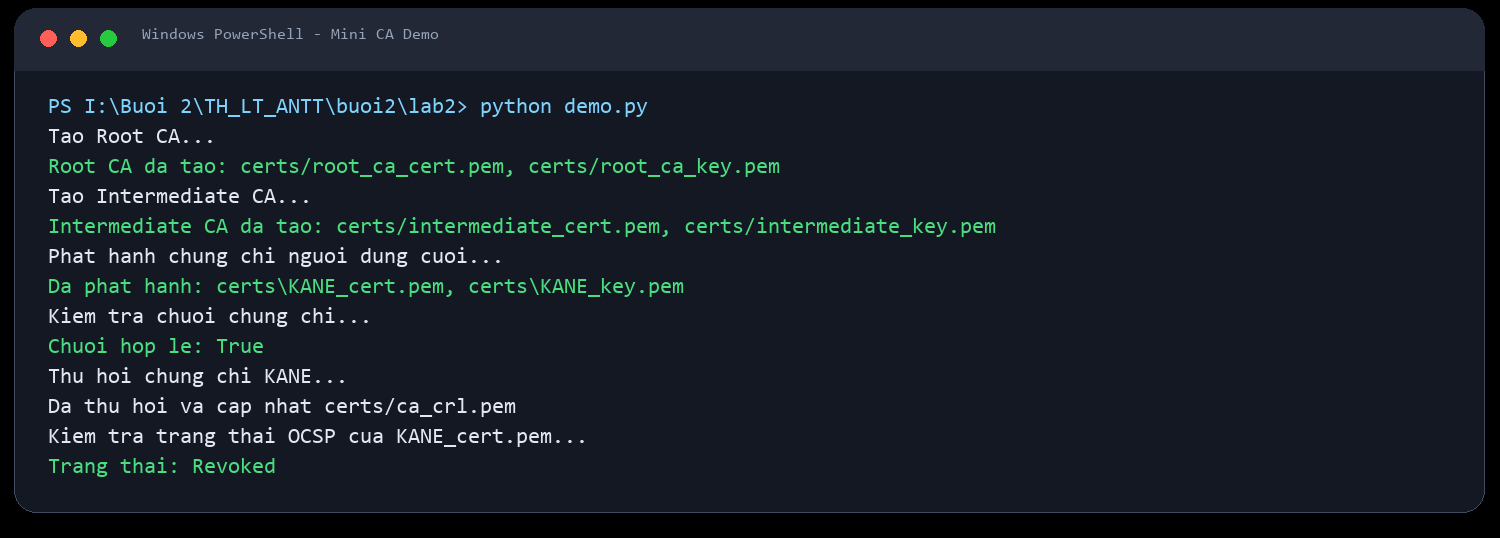
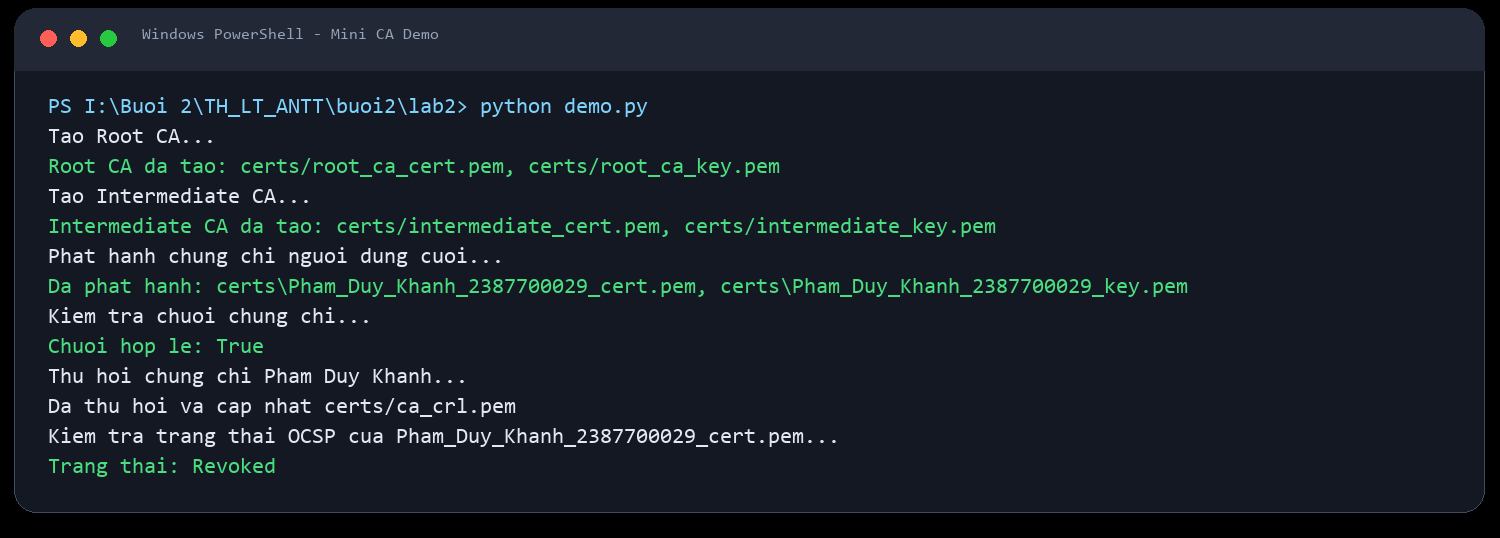
update student identity for buoi2 report

Changed region(s): [[0.184, 0.5056, 0.7973, 0.5651], [0.2453, 0.7732, 0.552, 0.8327], [0.184, 0.684, 0.3067, 0.7138]]

diff --git a/buoi2/lab2/demo_ui.py b/buoi2/lab2/demo_ui.py
@@ -61,13 +61,13 @@ class CADemoApp(tk.Tk):
         if not inter_key or not inter_cert:
             messagebox.showerror("Loi", "Phai tao CA truoc khi phat hanh chung chi")
             return
-        self.log("Phat hanh chung chi KANE...")
-        issue_certificate(inter_key, inter_cert, {"common_name": "KANE", "org": "HUTECH Security", "country": "VN"})
-        self.log("Da phat hanh: certs/KANE_cert.pem, certs/KANE_key.pem")
+        self.log("Phat hanh chung chi Pham Duy Khanh...")
+        issue_certificate(inter_key, inter_cert, {"common_name": "Pham Duy Khanh 2387700029", "org": "HUTECH Security", "country": "VN"})
+        self.log("Da phat hanh: certs/Pham_Duy_Khanh_2387700029_cert.pem, certs/Pham_Duy_Khanh_2387700029_key.pem")
         messagebox.showinfo("Thong bao", "Phat hanh chung chi thanh cong")
 
     def verify_chain(self):
-        cert_path = os.path.join("certs", "KANE_cert.pem")
+        cert_path = os.path.join("certs", "Pham_Duy_Khanh_2387700029_cert.pem")
         if not os.path.exists(cert_path):
             messagebox.showerror("Loi", "Chua co chung chi user de kiem tra")
             return
@@ -81,7 +81,7 @@ class CADemoApp(tk.Tk):
 
     def revoke_cert(self):
         paths = [
-            os.path.join("certs", "KANE_cert.pem"),
+            os.path.join("certs", "Pham_Duy_Khanh_2387700029_cert.pem"),
             os.path.join("certs", "intermediate_cert.pem"),
             os.path.join("certs", "intermediate_key.pem"),
         ]
@@ -89,11 +89,11 @@ class CADemoApp(tk.Tk):
             messagebox.showerror("Loi", "Thieu file chung chi hoac khoa de thu hoi")
             return
         revoke_certificate(paths[0], paths[1], paths[2], reason=x509.ReasonFlags.key_compromise)
-        self.log("Da thu hoi chung chi KANE")
+        self.log("Da thu hoi chung chi Pham Duy Khanh")
         messagebox.showinfo("Thong bao", "Chung chi da duoc thu hoi")
 
     def ocsp_check(self):
-        cert_path = os.path.join("certs", "KANE_cert.pem")
+        cert_path = os.path.join("certs", "Pham_Duy_Khanh_2387700029_cert.pem")
         if not os.path.exists(cert_path):
             messagebox.showerror("Loi", "Chua co chung chi user de kiem tra OCSP")
             return

diff --git a/buoi2/lab2/demo.py b/buoi2/lab2/demo.py
@@ -33,14 +33,14 @@ def setup_ca():
 
 def issue_cert_demo(inter_key, inter_cert):
     subject_info = {
-        "common_name": "KANE",
+        "common_name": "Pham Duy Khanh 2387700029",
         "org": "HUTECH Security",
         "country": "VN",
     }
     print("Phat hanh chung chi nguoi dung cuoi...")
     issue_certificate(inter_key, inter_cert, subject_info)
-    cert_path = os.path.join("certs", "KANE_cert.pem")
-    key_path = os.path.join("certs", "KANE_key.pem")
+    cert_path = os.path.join("certs", "Pham_Duy_Khanh_2387700029_cert.pem")
+    key_path = os.path.join("certs", "Pham_Duy_Khanh_2387700029_key.pem")
     print(f"Da phat hanh: {cert_path}, {key_path}")
     return cert_path
 
@@ -58,9 +58,9 @@ def verify_chain_demo(user_cert_path):
 
 
 def revoke_demo():
-    print("Thu hoi chung chi KANE...")
+    print("Thu hoi chung chi Pham Duy Khanh...")
     revoke_certificate(
-        os.path.join("certs", "KANE_cert.pem"),
+        os.path.join("certs", "Pham_Duy_Khanh_2387700029_cert.pem"),
         os.path.join("certs", "intermediate_cert.pem"),
         os.path.join("certs", "intermediate_key.pem"),
         reason=x509.ReasonFlags.key_compromise,
@@ -69,8 +69,8 @@ def revoke_demo():
 
 
 def ocsp_check_demo():
-    print("Kiem tra trang thai OCSP cua KANE_cert.pem...")
-    revoked = check_revocation_status(os.path.join("certs", "KANE_cert.pem"))
+    print("Kiem tra trang thai OCSP cua Pham_Duy_Khanh_2387700029_cert.pem...")
+    revoked = check_revocation_status(os.path.join("certs", "Pham_Duy_Khanh_2387700029_cert.pem"))
     print(f"Trang thai: {'Revoked' if revoked else 'Valid'}")
     return revoked
 

diff --git a/buoi2/lab2/inspect_cert.py b/buoi2/lab2/inspect_cert.py
@@ -2,7 +2,7 @@ from ca_utils import load_cert
 
 
 def main():
-    cert = load_cert("certs/KANE_cert.pem")
+    cert = load_cert("certs/Pham_Duy_Khanh_2387700029_cert.pem")
     print("Subject:", cert.subject.rfc4514_string())
     print("Issuer :", cert.issuer.rfc4514_string())
     print("Serial :", hex(cert.serial_number))

diff --git a/buoi2/README.md b/buoi2/README.md
@@ -1,6 +1,7 @@
 # Bao cao thuc hanh Buoi 2: Ma hoa du lieu va trien khai PKI
 
-- Sinh vien: KANE
+- Sinh vien: Phạm Duy Khánh
+- MSSV: 2387700029
 - Mon hoc: Lap trinh an toan / Bao mat ung dung
 
 ---
@@ -100,7 +101,7 @@ Xay dung he thong PKI don gian:
 
 - Tao **Root CA** tu ky.
 - Tao **Intermediate CA** duoc Root CA ky.
-- Phat hanh chung chi end-entity cho `KANE`.
+- Phat hanh chung chi end-entity cho `Phạm Duy Khánh - 2387700029`.
 - Kiem tra chuoi tin cay `User Cert -> Intermediate CA -> Root CA`.
 - Thu hoi chung chi bang CRL va kiem tra trang thai kieu OCSP.
 
@@ -113,7 +114,7 @@ python demo.py
 
 ![Demo Mini CA CLI](./images/lab2_step1_demo_cli.png)
 
-Demo tao Root CA, Intermediate CA, phat hanh chung chi KANE, verify chain, thu hoi chung chi va kiem tra trang thai `Revoked`.
+Demo tao Root CA, Intermediate CA, phat hanh chung chi Pham Duy Khanh, verify chain, thu hoi chung chi va kiem tra trang thai `Revoked`.
 
 ### 3.3. Kiem tra cac file chung chi
 
@@ -129,7 +130,7 @@ python .\inspect_cert.py
 
 ![Chi tiet chung chi X.509](./images/lab2_step3_cert_details.png)
 
-Chung chi nguoi dung co `Subject` la `CN=KANE,O=HUTECH Security,C=VN` va duoc ky boi `Mini Intermediate CA`.
+Chung chi nguoi dung co `Subject` la `CN=Pham Duy Khanh 2387700029,O=HUTECH Security,C=VN` va duoc ky boi `Mini Intermediate CA`.
 
 ### 3.5. Thu hoi va kiem tra OCSP
 

diff --git a/buoi1/README.md b/buoi1/README.md
@@ -1,6 +1,6 @@
 # TH_LT_ANTT – Bài Thực Hành An Toàn Thông Tin
 
-**Tác giả:** KANE
+**Tác giả:** Phạm Duy Khánh - MSSV 2387700029
 
 Các lab về lập trình bảo mật cơ bản: validation, pre-commit hooks, logging bảo mật.
 

diff --git a/README.md b/README.md
@@ -1,6 +1,6 @@
 # TH_LT_ANTT - Bai Thuc Hanh An Toan Thong Tin
 
-**Tac gia:** KANE
+**Tac gia:** Phạm Duy Khánh - MSSV 2387700029
 
 Repo duoc chia theo tung buoi thuc hanh:
 
